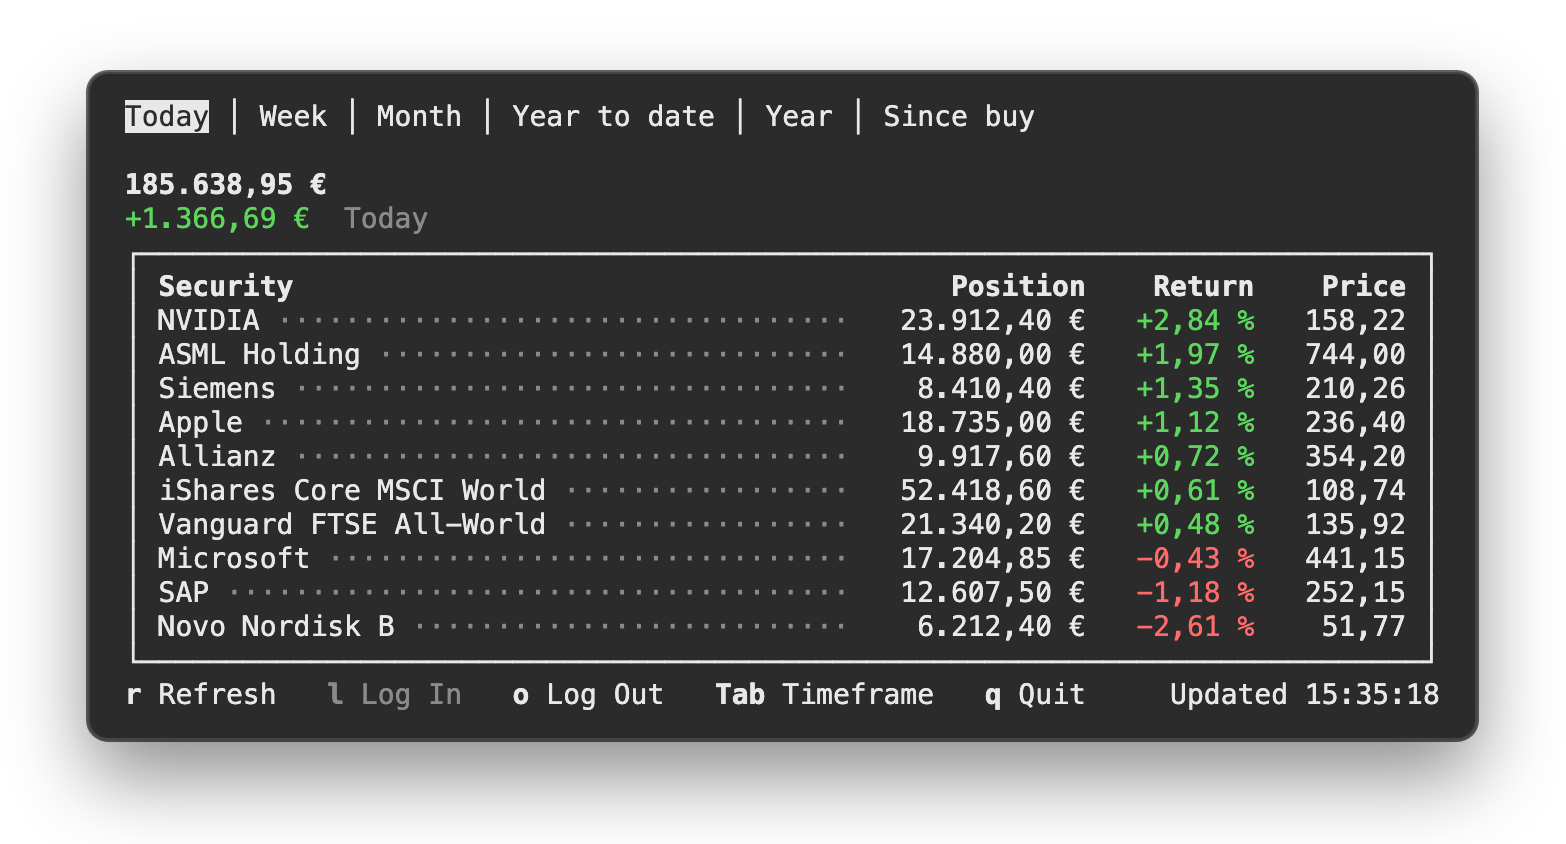
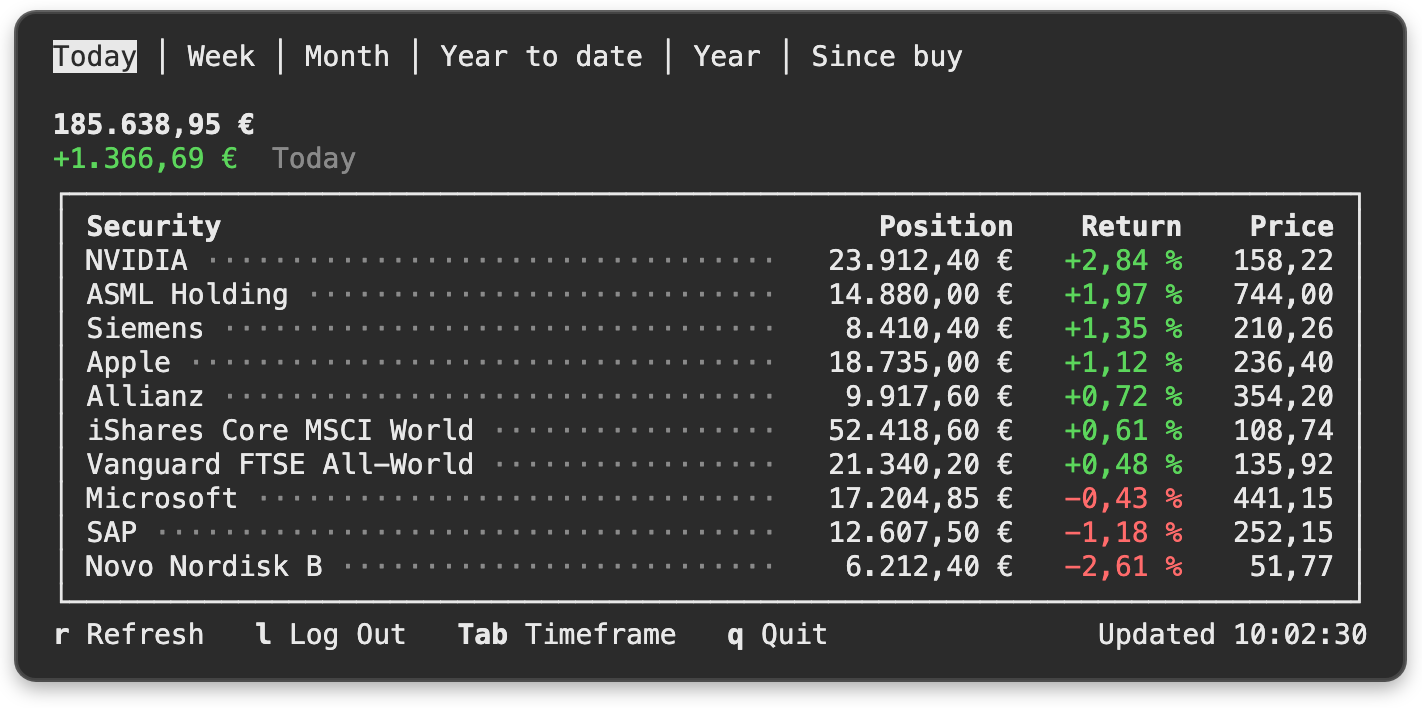
Log in and out of the terminal example with one key
`l` now logs in while logged out and logs out while logged in, and its hint
says which. Hints that do nothing right now are hidden instead of dimmed:
`l` disappears while a login or logout runs, such as a cancelled login that
hasn't stopped yet, and the login dialog leaves only `q`, which now quits
from it too. This drops the separate `o` key and the per-hint styles.

The README's screenshot shows the new footer, and a second one below it the
login dialog, both with made-up data.

diff --git a/embed/examples/terminal/main.rs b/embed/examples/terminal/main.rs
@@ -169,12 +169,13 @@ impl App {
         }
     }
 
-    fn can_login(&self) -> bool {
-        !self.auth_pending && matches!(self.session, Session::LoggedOut)
-    }
-
-    fn can_logout(&self) -> bool {
-        !self.auth_pending && matches!(self.session, Session::LoggedIn(_))
+    fn login_label(&self) -> Option<&'static str> {
+        match self.session {
+            _ if self.auth_pending => None,
+            Session::LoggedOut => Some("Log In"),
+            Session::LoggedIn(_) => Some("Log Out"),
+            Session::LoggingIn(_) => None,
+        }
     }
 
     // -----------------------------------------------------------------------
@@ -198,6 +199,7 @@ impl App {
                     self.session = Session::LoggedOut;
                     self.status = "Not logged in".to_string();
                 }
+                KeyCode::Char('q') => self.quit = true,
                 _ => {}
             }
             return;
@@ -205,11 +207,12 @@ impl App {
         match key.code {
             KeyCode::Char('q') => self.quit = true,
             KeyCode::Char('r') => self.refresh(),
-            KeyCode::Char('l') if self.can_login() => {
-                self.start_login();
-            }
-            KeyCode::Char('o') if self.can_logout() => {
-                self.send(Request::Logout);
+            KeyCode::Char('l') if self.login_label().is_some() => {
+                if matches!(self.session, Session::LoggedOut) {
+                    self.start_login();
+                } else {
+                    self.send(Request::Logout);
+                }
             }
             KeyCode::Tab => self.timeframe = (self.timeframe + 1) % TIMEFRAMES.len(),
             KeyCode::BackTab => {
@@ -379,25 +382,19 @@ impl App {
         );
     }
 
-    /// The keys, with those that do nothing right now dimmed.
     fn key_hints(&self) -> Line<'_> {
+        // The login dialog shows its own keys.
+        let dialog = matches!(self.session, Session::LoggingIn(_));
         let hints = [
-            // Pressing it during a refresh does nothing, but that one ends soon.
-            ("r", "Refresh", true),
-            ("l", "Log In", self.can_login()),
-            ("o", "Log Out", self.can_logout()),
-            ("Tab", "Timeframe", true),
-            ("q", "Quit", true),
+            (!dialog).then_some(("r", "Refresh")),
+            self.login_label().map(|label| ("l", label)),
+            (!dialog).then_some(("Tab", "Timeframe")),
+            Some(("q", "Quit")),
         ];
         let mut spans = Vec::new();
-        for (key, label, enabled) in hints {
-            let style = if enabled {
-                Style::new()
-            } else {
-                Style::new().dim()
-            };
-            spans.push(Span::styled(key, style.bold()));
-            spans.push(Span::styled(format!(" {label}   "), style));
+        for (key, label) in hints.into_iter().flatten() {
+            spans.push(key.bold());
+            spans.push(format!(" {label}   ").into());
         }
         Line::from(spans)
     }
@@ -569,16 +566,9 @@ mod tests {
         app.on_key(login_key);
         assert!(worker_requests.try_recv().is_err(), "login is still busy");
         let hints = app.key_hints();
-        let login_hint = hints
-            .spans
-            .iter()
-            .find(|span| span.content == "l")
-            .expect("login hint");
         assert!(
-            login_hint
-                .style
-                .add_modifier
-                .contains(ratatui::style::Modifier::DIM)
+            hints.spans.iter().all(|span| span.content != "l"),
+            "no login hint"
         );
 
         // Replies sent before the worker saw the cancellation are ignored.
@@ -602,6 +592,26 @@ mod tests {
         app.handle(Reply::LoginDone(Ok(())));
         assert!(matches!(app.session, Session::LoggedIn(None)));
         assert!(matches!(worker_requests.try_recv(), Ok(Request::Refresh)));
+    }
+
+    #[test]
+    fn login_dialog_keeps_only_quit_from_the_main_keys() {
+        let (requests, _worker_requests) = mpsc::channel();
+        let (_, replies) = mpsc::channel();
+        let mut app = App::new(requests, replies);
+        app.session = Session::LoggedOut;
+        app.on_key(KeyEvent::new(KeyCode::Char('l'), KeyModifiers::NONE));
+        assert!(matches!(app.session, Session::LoggingIn(_)));
+
+        let hints: String = app
+            .key_hints()
+            .spans
+            .iter()
+            .map(|span| span.content.as_ref())
+            .collect();
+        assert_eq!(hints.trim_end(), "q Quit");
+        app.on_key(KeyEvent::new(KeyCode::Char('q'), KeyModifiers::NONE));
+        assert!(app.quit);
     }
 
     #[test]
@@ -636,7 +646,7 @@ mod tests {
         let mut app = App::new(requests, replies);
         app.refresh();
         assert!(matches!(worker_requests.try_recv(), Ok(Request::Refresh)));
-        let logout_key = KeyEvent::new(KeyCode::Char('o'), KeyModifiers::NONE);
+        let logout_key = KeyEvent::new(KeyCode::Char('l'), KeyModifiers::NONE);
         app.on_key(logout_key);
         assert!(matches!(worker_requests.try_recv(), Ok(Request::Logout)));
         app.on_key(logout_key);
@@ -726,7 +736,7 @@ mod tests {
             " │ SAP ·····································   12.607,50 €   -1,18 %   252,15 │",
             " │ iShares Core MSCI World ·················   52.418,60 €         –   108,74 │",
             " └────────────────────────────────────────────────────────────────────────────┘",
-            " r Refresh   l Log In   o Log Out   Tab Timeframe   q Quit     Updated 12:08:36",
+            " r Refresh   l Log Out   Tab Timeframe   q Quit                Updated 12:08:36",
         ];
         let lines: Vec<&str> = screen
             .lines()

diff --git a/.github/README.md b/.github/README.md
@@ -15,9 +15,12 @@ two ways to use them:
   the CLI's behavior, including the two-step trade and savings-plan
   confirmation flows.
 
+The terminal example is a small app built on the library. It shows a portfolio
+and its holdings, and logs in from a dialog, here with made-up data:
+
 ![The terminal example showing a portfolio's total, today's change and its holdings ranked by today's return](screenshots/terminal.png)
 
-*The [terminal example](#usage) with made-up data.*
+![The terminal example's login dialog showing a device code to confirm in the browser](screenshots/terminal-login.png)
 
 ## Usage
 
@@ -149,7 +152,7 @@ re-exports its `embed` module under the library's own name and holds the
 example, which can add dependencies without touching the root `Cargo.lock`.
 
 New code lives in `src/embed.rs`, `src/embed/`, `embed/` and `tests/embed.rs`.
-This README and its screenshot live in `.github/`, so GitHub shows it instead
+This README and its screenshots live in `.github/`, so GitHub shows it instead
 of upstream's `README.md`. Changes to upstream files are limited to these hooks:
 
 | File | Change |
